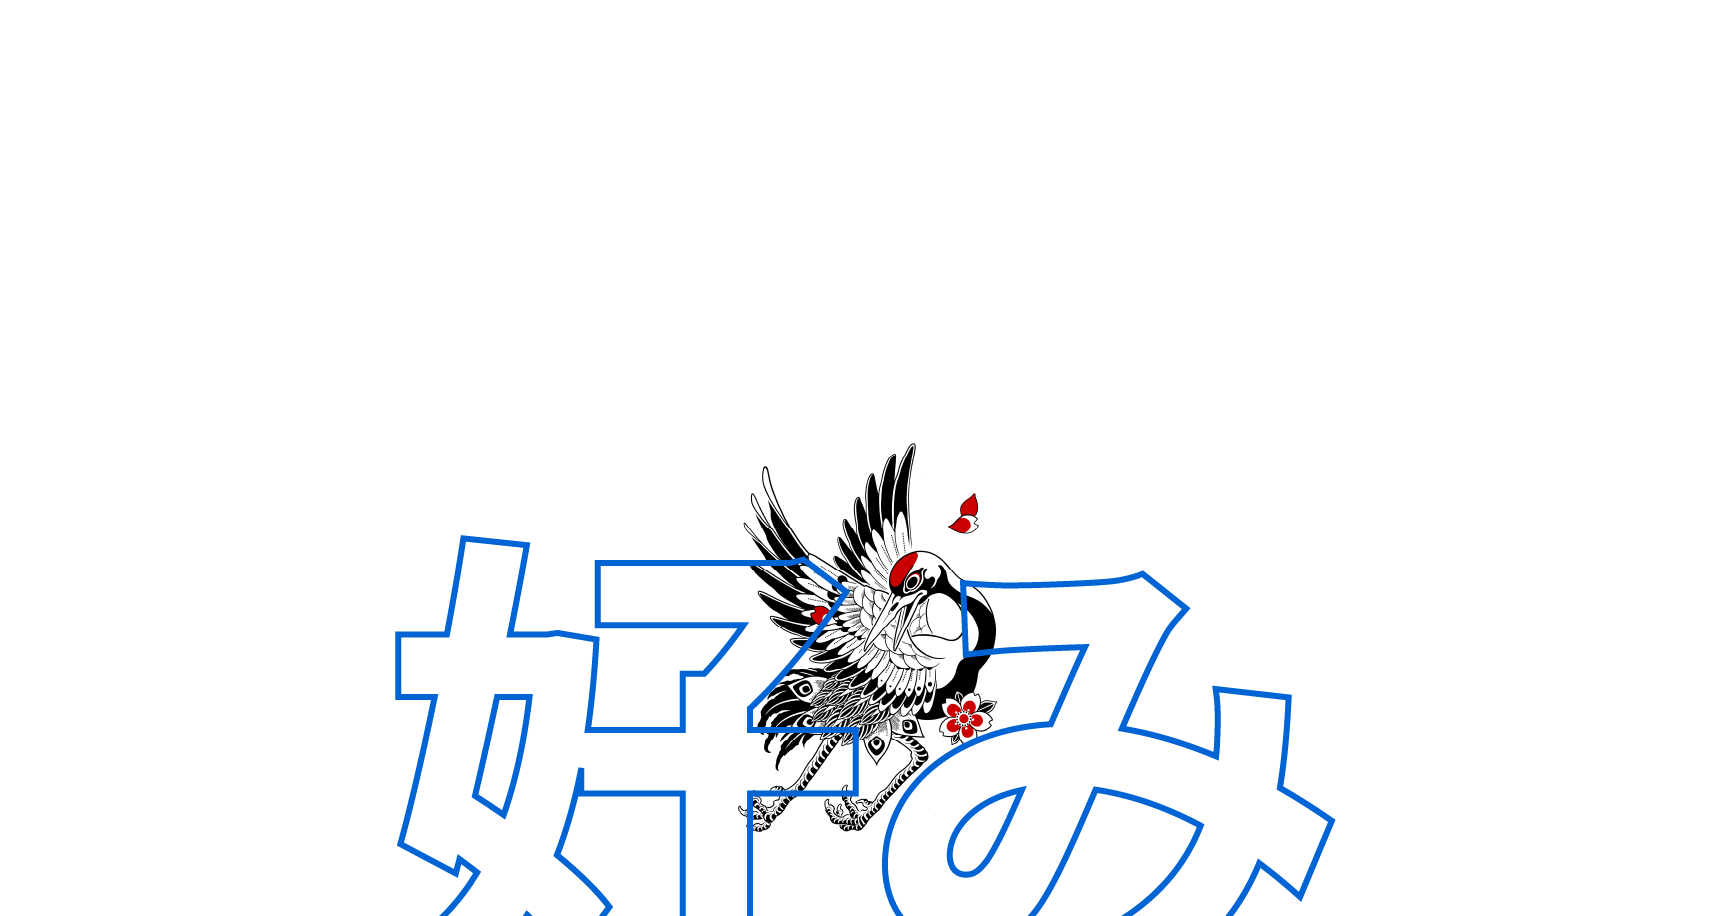
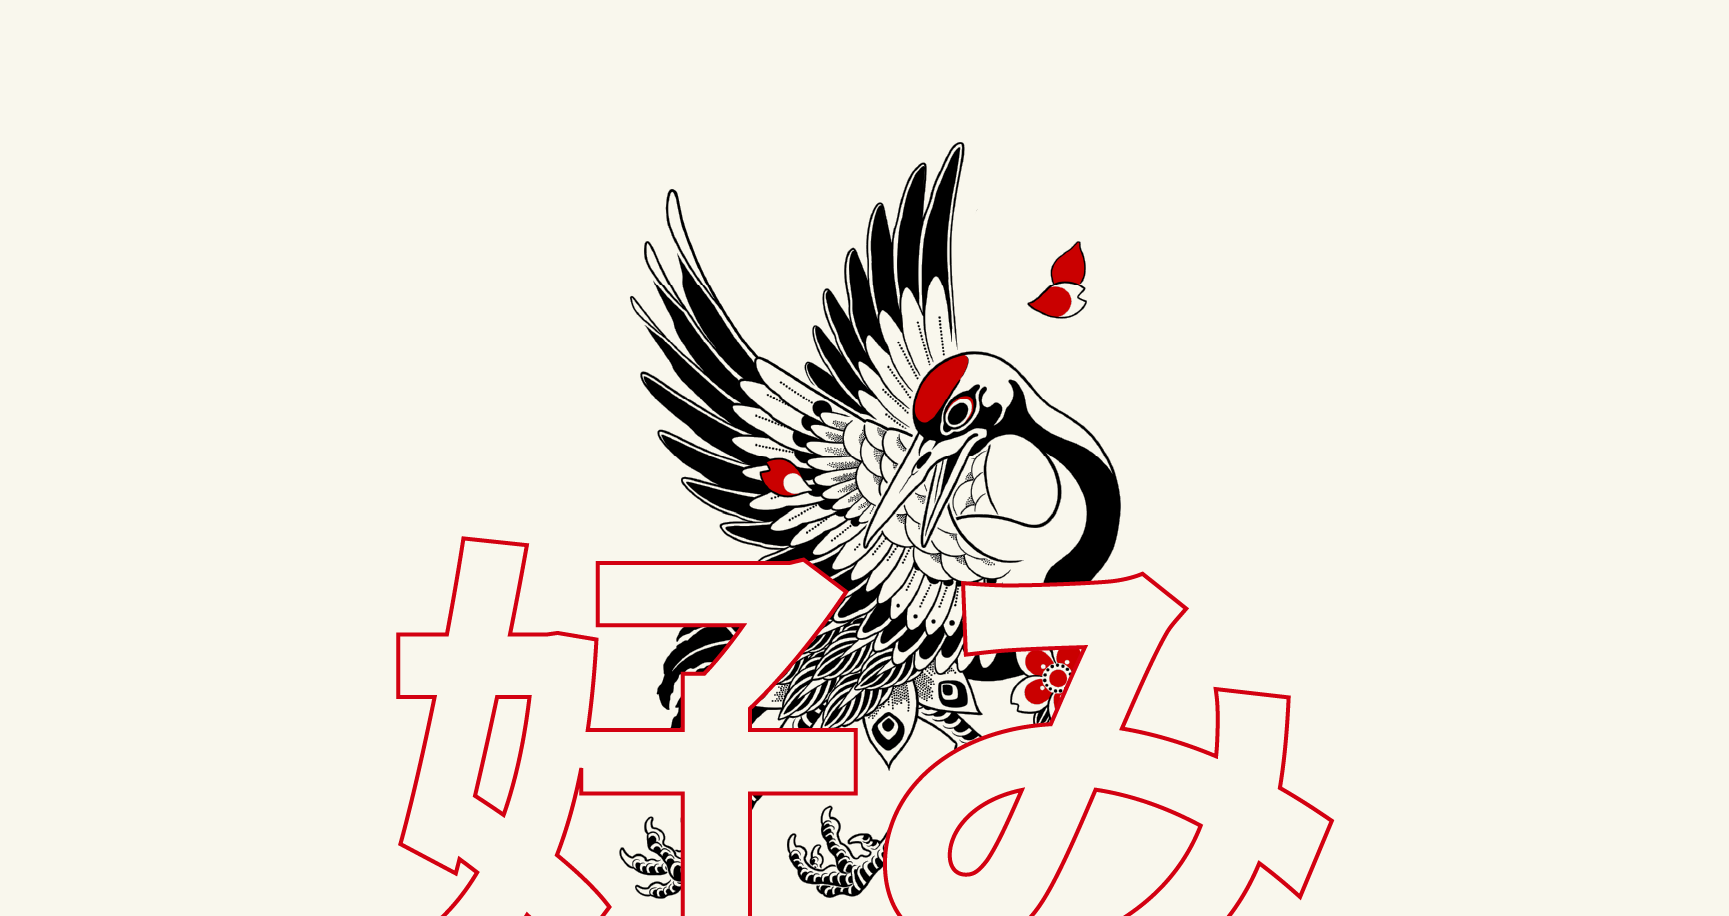
changes

diff --git a/src/slices/BasicSlice/index.tsx b/src/slices/BasicSlice/index.tsx
@@ -24,6 +24,7 @@ const BasicSlice = ({ slice }: BasicSliceProps): JSX.Element => {
         <section
           data-slice-type={slice.slice_type}
           data-slice-variation={slice.variation}
+          className={styles.slice}
         >
           <div className={styles.sliceContainer}>
             <div className={styles.upperContainer}>
@@ -49,6 +50,7 @@ const BasicSlice = ({ slice }: BasicSliceProps): JSX.Element => {
         <section
           data-slice-type={slice.slice_type}
           data-slice-variation={slice.variation}
+          className={styles.slice}
         >
           <div className={styles.sliceContainer}>
             <div className={styles.upperContainer}>
@@ -73,6 +75,7 @@ const BasicSlice = ({ slice }: BasicSliceProps): JSX.Element => {
         <section
           data-slice-type={slice.slice_type}
           data-slice-variation={slice.variation}
+          className={styles.slice}
         >
           <div className={styles.sliceContainer}>
             <div className={styles.upperContainer}>
@@ -100,6 +103,7 @@ const BasicSlice = ({ slice }: BasicSliceProps): JSX.Element => {
       {slice.variation === 'whyKonomi' && (
         <section
           data-slice-type={slice.slice_type}
+          className={styles.slice}
           data-slice-variation={slice.variation}
         >
           <div className={styles.sliceContainer}>

diff --git a/src/app/components/background/BackgroundCanvas/BackgrounCanvas.tsx b/src/app/components/background/BackgroundCanvas/BackgrounCanvas.tsx
@@ -100,7 +100,7 @@ export default function BackgroundCanvas() {
       1,
       1000
     );
-    camera.position.z = 1;
+    camera.position.z = 5;
 
     const loader = new TextureLoader();
     const texture = loader.load(background);
@@ -111,7 +111,7 @@ export default function BackgroundCanvas() {
 
     for (let i = 0; i < planeGeometry.attributes.position.count; i++) {
       randomDirections[i * (directionsMultiplier ?? 1)] =
-        (Math.random() - 0.9) * 5;
+        (Math.random() - 0.4) * 5;
       randomDirections[i * (directionsMultiplier ?? 1)] =
         (Math.random() - 0.1) * 1.5;
       randomDirections[i * (directionsMultiplier ?? 1)] = Math.random() * 1.5;

diff --git a/src/app/globals.css b/src/app/globals.css
@@ -17,7 +17,7 @@
     --light-blue: #D5E9FF;
     --red-lowopa: rgba(188, 0, 45, 0.2);
     --red: rgba(188, 0, 45, 1);
-    --beige: #E1CEBC;
+    --beige: #F9F7ED;
 
 
     /* typefaces */
@@ -49,7 +49,7 @@ body {
     min-height: 100svh;
     height: fit-content;
     overflow-x: hidden;
-    background-color: var(--beige) !important;
+    background-color: var(--beige);
 }
 
 h1,

diff --git a/src/app/events/components/Filtercomponents/Topfield.module.css b/src/app/events/components/Filtercomponents/Topfield.module.css
@@ -16,7 +16,6 @@
     border: 1px solid var(--red);
     cursor: pointer;
     transition: all 0.2s var(--bezier);
-    background-color: var(--beige);
     z-index: 20;
 }
 

diff --git a/src/slices/BasicSlice/BasicSlice.module.css b/src/slices/BasicSlice/BasicSlice.module.css
@@ -4,6 +4,10 @@
     gap: 2rem;
 }
 
+.sliceContainer p {
+    background-color: var(--beige);
+}
+
 .upperContainer {
     display: flex;
     flex-direction: column;

diff --git a/src/app/events/[uid]/components/EventContent.module.css b/src/app/events/[uid]/components/EventContent.module.css
@@ -81,10 +81,7 @@
 
 }
 
-.eventContainer p {
-    background-color: var(--beige);
-
-}
+.eventContainer p {}
 
 .overlayImageContainer {
     position: fixed;

diff --git a/src/app/events/components/Filtercomponents/LowerContent.module.css b/src/app/events/components/Filtercomponents/LowerContent.module.css
@@ -11,7 +11,6 @@
 }
 
 .eventType p {
-    background-color: var(--beige);
     color: var(--red);
     transition: all 0.2s var(--bezier);
     width: 100%;

diff --git a/src/app/components/header/Header.module.css b/src/app/components/header/Header.module.css
@@ -9,5 +9,5 @@
     z-index: 1000;
     top: 0;
     left: 0;
-    background-color: #F9F7ED;
+    background-color: var(--beige);
 }

diff --git a/src/app/components/Homepage/SectionContainer/SectionContainer.module.css b/src/app/components/Homepage/SectionContainer/SectionContainer.module.css
@@ -3,6 +3,7 @@
     display: flex;
     flex-direction: column;
     gap: 4.2rem;
+    background-color: var(--beige);
 }
 
 
